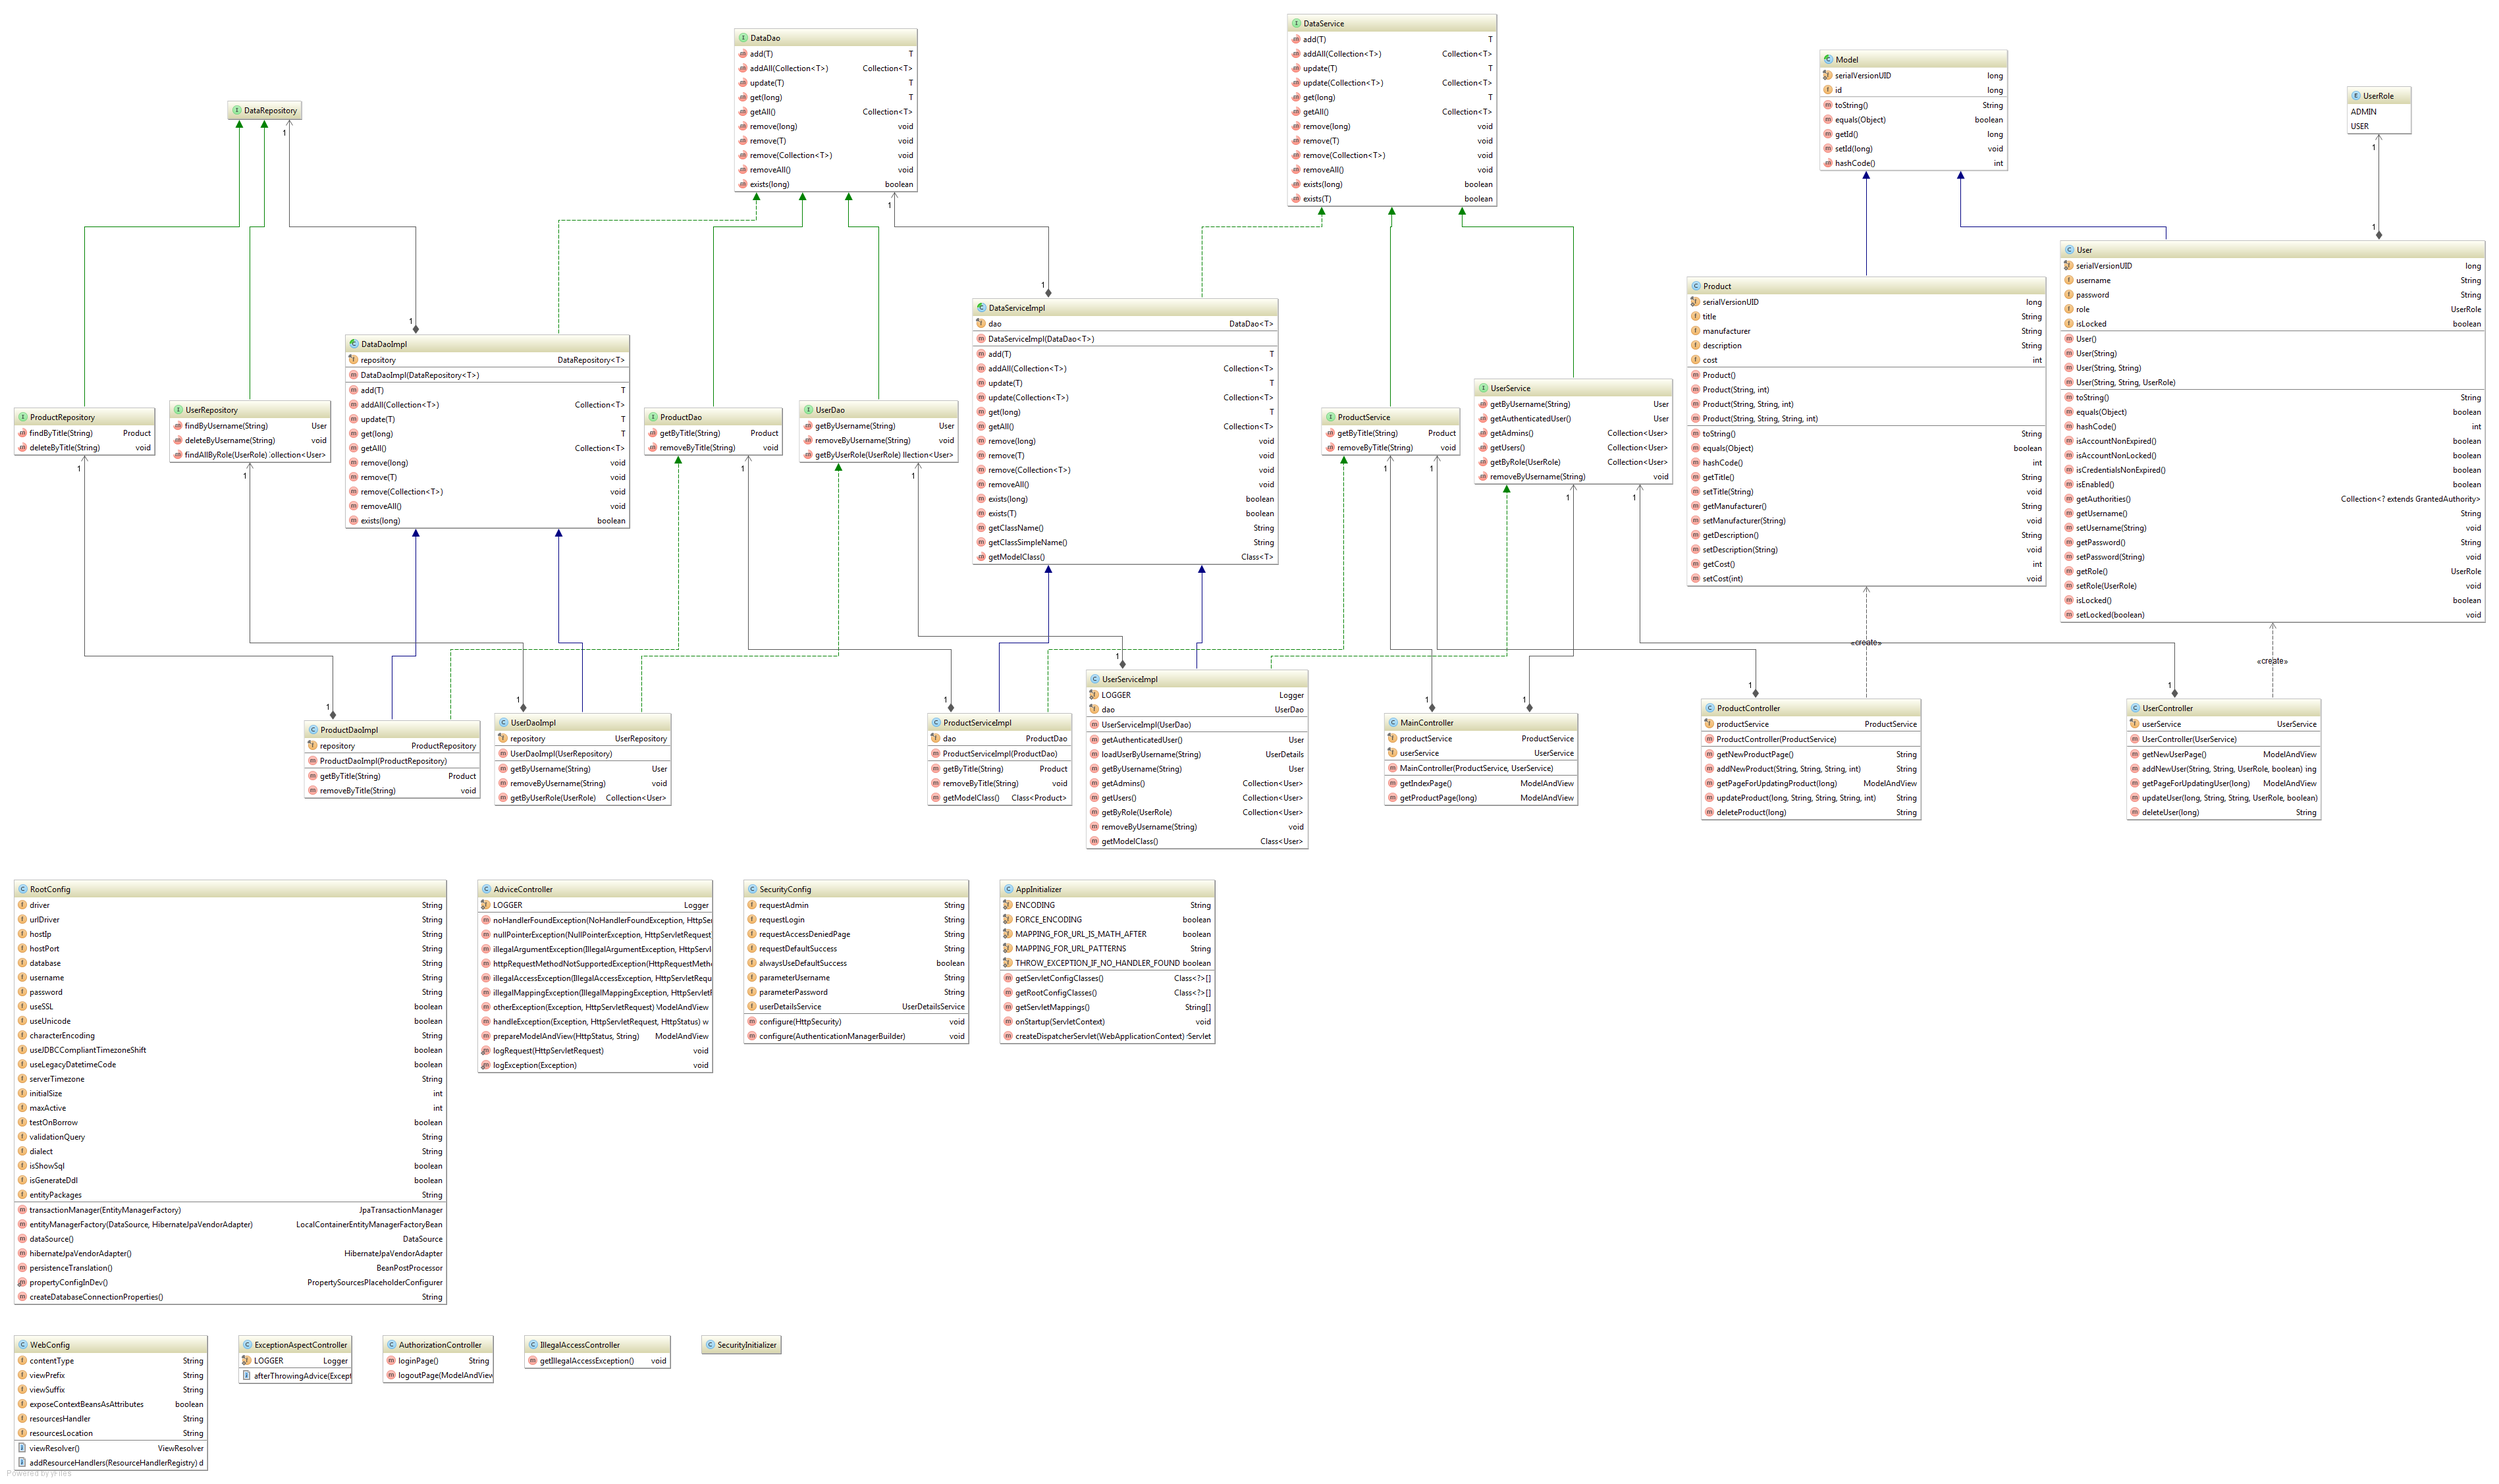
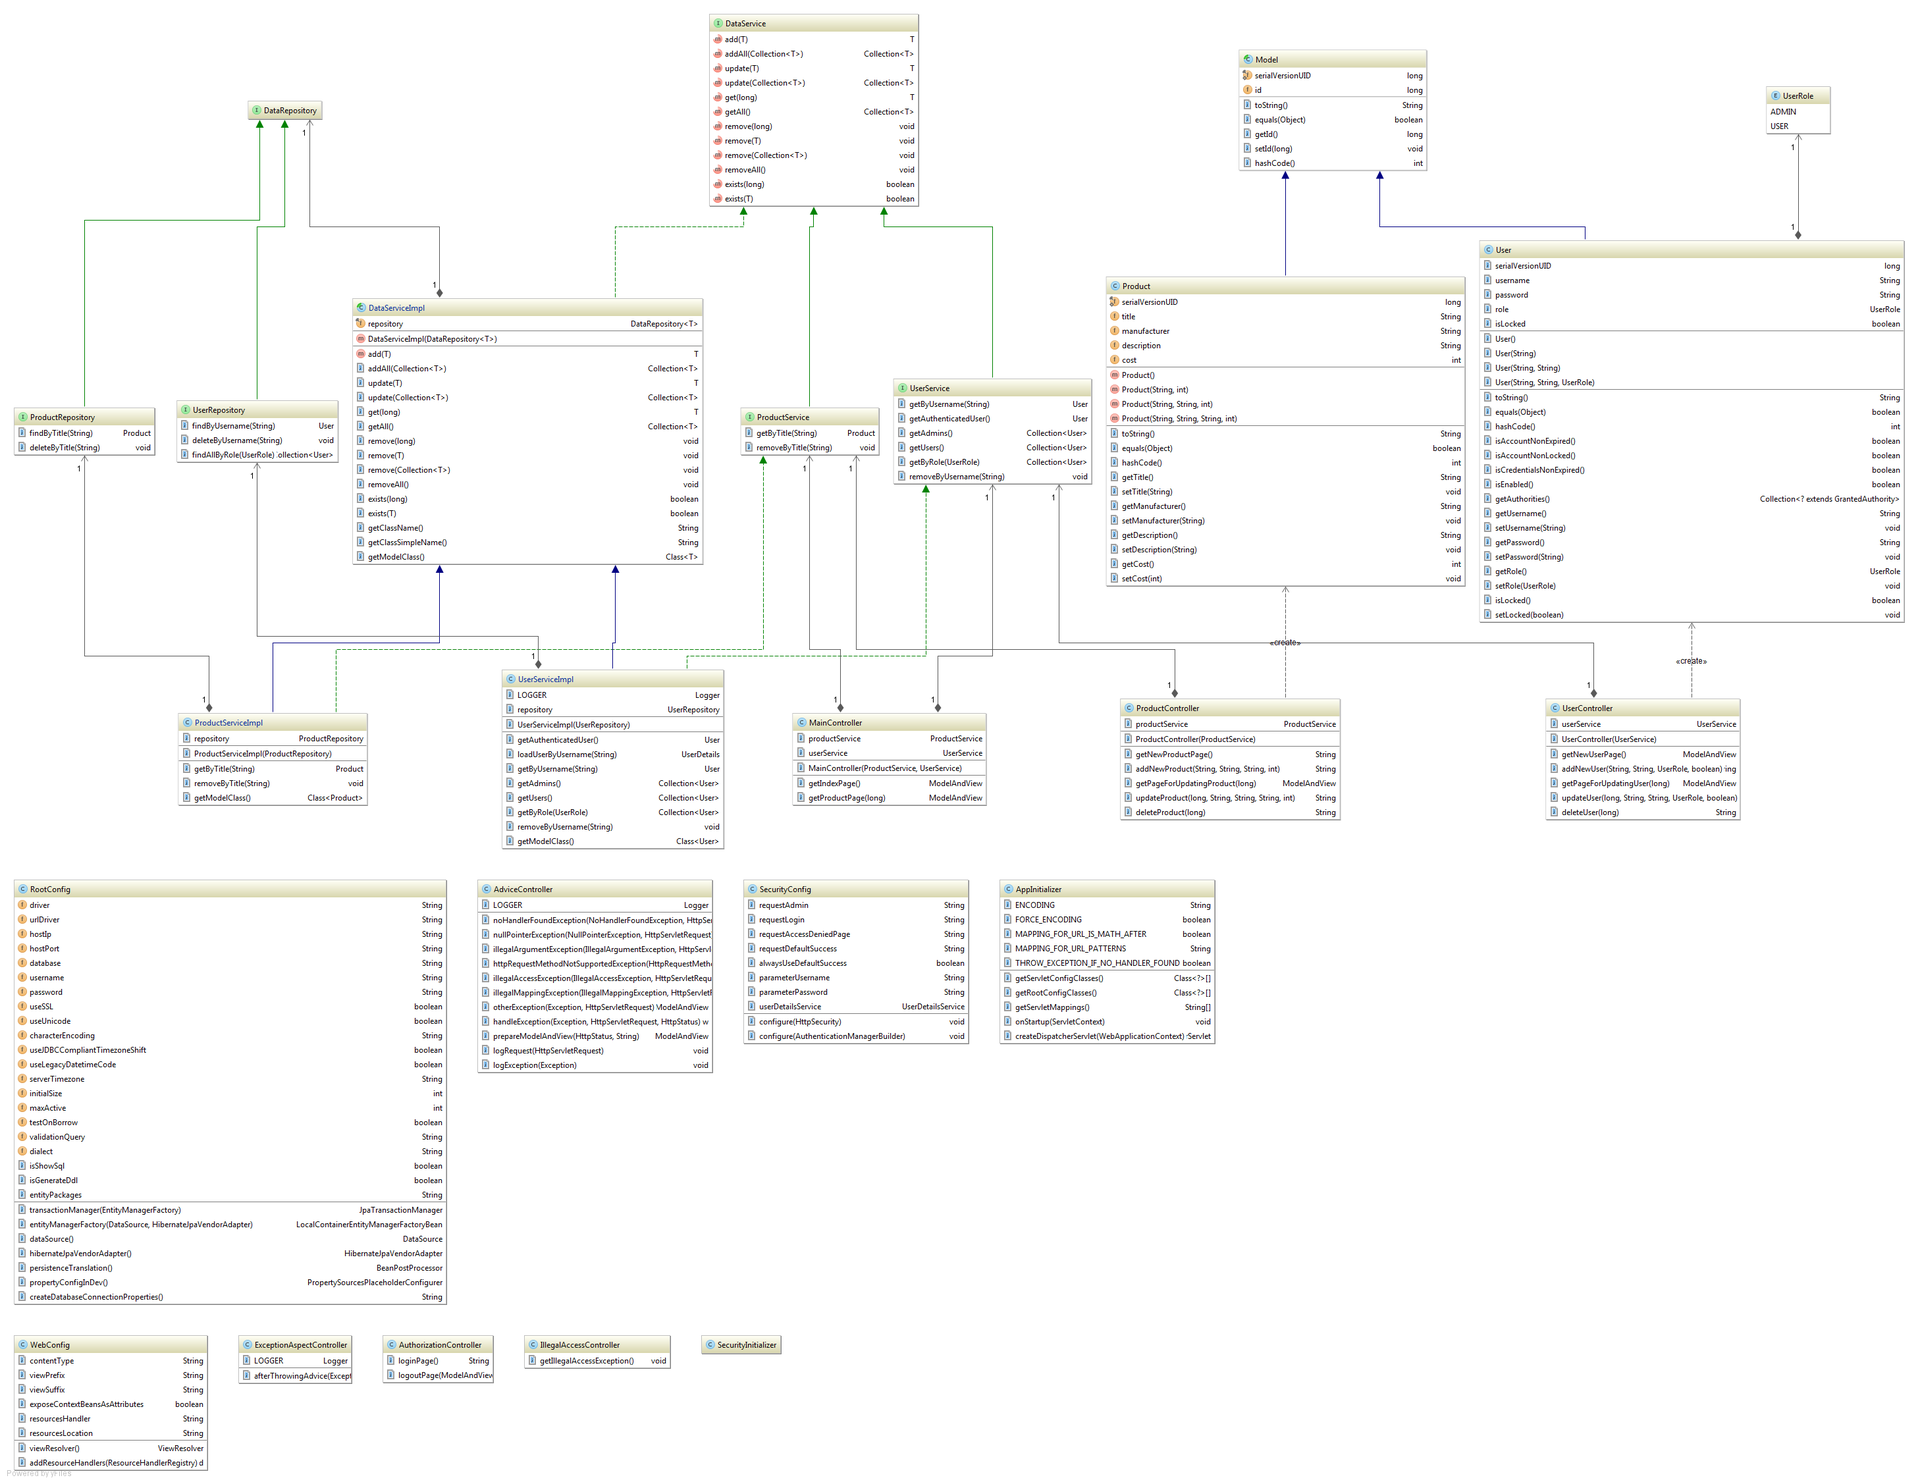
Code refactoring.

diff --git a/src/main/java/com/management/product/service/DataServiceImpl.java b/src/main/java/com/management/product/service/DataServiceImpl.java
@@ -1,11 +1,12 @@
 package com.management.product.service;
 
-import com.management.product.dao.DataDao;
 import com.management.product.entity.Model;
+import com.management.product.repository.DataRepository;
 import org.springframework.transaction.annotation.Transactional;
 
-import java.util.*;
-import java.util.stream.Collectors;
+import java.util.ArrayList;
+import java.util.Collection;
+import java.util.List;
 
 /**
  * The class of the service layer, describes a set of methods
@@ -21,16 +22,16 @@ public abstract class DataServiceImpl<T extends Model> implements DataService<T>
      * The object provides a set of standard JPA methods
      * for working {@link Model} objects with the database.
      */
-    private final DataDao<T> dao;
+    private final DataRepository<T> repository;
 
     /**
      * Constructor.
      * Initializes a implementations of the interfaces.
      *
-     * @param dao a implementation of the {@link DataDao} interface.
+     * @param repository a implementation of the {@link DataRepository} interface.
      */
-    DataServiceImpl(final DataDao<T> dao) {
-        this.dao = dao;
+    DataServiceImpl(final DataRepository<T> repository) {
+        this.repository = repository;
     }
 
     /**
@@ -47,7 +48,7 @@ public abstract class DataServiceImpl<T extends Model> implements DataService<T>
         if (model == null) {
             throw new IllegalArgumentException("Input model is null!");
         }
-        return this.dao.add(model);
+        return this.repository.save(model);
     }
 
     /**
@@ -62,11 +63,7 @@ public abstract class DataServiceImpl<T extends Model> implements DataService<T>
     public Collection<T> addAll(final Collection<T> models) {
         final List<T> result = new ArrayList<>();
         if (models != null && !models.isEmpty()) {
-            result.addAll(
-                    models.stream()
-                            .map(this::add)
-                            .collect(Collectors.toList())
-            );
+            result.addAll(this.repository.save(models));
         }
         return result;
     }
@@ -81,13 +78,8 @@ public abstract class DataServiceImpl<T extends Model> implements DataService<T>
      */
     @Override
     @Transactional
-    public T update(final T model) throws IllegalArgumentException {
-        if (model == null) {
-            throw new IllegalArgumentException(
-                    "Input " + getClassSimpleName() + " is null!"
-            );
-        }
-        return this.dao.update(model);
+    public T update(final T model) {
+        return add(model);
     }
 
     /**
@@ -100,20 +92,12 @@ public abstract class DataServiceImpl<T extends Model> implements DataService<T>
     @Override
     @Transactional
     public Collection<T> update(final Collection<T> models) {
-        final List<T> result = new ArrayList<>();
-        if (models != null && !models.isEmpty()) {
-            result.addAll(
-                    models.stream()
-                            .map(this::update)
-                            .collect(Collectors.toList())
-            );
-        }
-        return result;
+        return addAll(models);
     }
 
     /**
      * Returns object of class {@link Model} or subclasses with parameter id.
-     * If id is {@code null} then throws IllegalArgumentException.
+     * If id is {@code null} then throws NullPointerException.
      *
      * @param id is id of object to return.
      * @return The model with parameter id.
@@ -122,7 +106,7 @@ public abstract class DataServiceImpl<T extends Model> implements DataService<T>
     @Override
     @Transactional(readOnly = true)
     public T get(final long id) throws NullPointerException {
-        final T model = this.dao.get(id);
+        final T model = this.repository.findOne(id);
         if (model == null) {
             throw new NullPointerException(
                     "Can`t find " + getClassSimpleName() +
@@ -140,7 +124,7 @@ public abstract class DataServiceImpl<T extends Model> implements DataService<T>
     @Override
     @Transactional
     public Collection<T> getAll() {
-        return this.dao.getAll();
+        return this.repository.findAll();
     }
 
     /**
@@ -152,7 +136,7 @@ public abstract class DataServiceImpl<T extends Model> implements DataService<T>
     @Override
     @Transactional
     public void remove(final long id) {
-        this.dao.remove(id);
+        this.repository.delete(id);
     }
 
     /**
@@ -165,7 +149,7 @@ public abstract class DataServiceImpl<T extends Model> implements DataService<T>
     @Transactional
     public void remove(final T model) {
         if (model != null) {
-            this.dao.remove(model);
+            this.repository.delete(model);
         }
     }
 
@@ -179,7 +163,7 @@ public abstract class DataServiceImpl<T extends Model> implements DataService<T>
     @Transactional
     public void remove(final Collection<T> models) {
         if (models != null && !models.isEmpty()) {
-            models.forEach(this::remove);
+            this.repository.delete(models);
         }
     }
 
@@ -189,7 +173,7 @@ public abstract class DataServiceImpl<T extends Model> implements DataService<T>
     @Override
     @Transactional
     public void removeAll() {
-        this.dao.removeAll();
+        this.repository.deleteAll();
     }
 
     /**
@@ -202,8 +186,8 @@ public abstract class DataServiceImpl<T extends Model> implements DataService<T>
      */
     @Override
     @Transactional(readOnly = true)
-    public boolean exists(final long id) {
-        return this.dao.exists(id);
+    public boolean exists(long id) {
+        return this.repository.exists(id);
     }
 
     /**

diff --git a/src/main/java/com/management/product/service/UserServiceImpl.java b/src/main/java/com/management/product/service/UserServiceImpl.java
@@ -1,8 +1,8 @@
 package com.management.product.service;
 
-import com.management.product.dao.UserDao;
 import com.management.product.entity.User;
 import com.management.product.enums.UserRole;
+import com.management.product.repository.UserRepository;
 import org.apache.log4j.Logger;
 import org.springframework.beans.factory.annotation.Autowired;
 import org.springframework.context.annotation.ComponentScan;
@@ -38,18 +38,18 @@ public class UserServiceImpl extends DataServiceImpl<User> implements UserServic
      * The interface provides a set of standard methods for working
      * {@link User} objects with the database.
      */
-    private final UserDao dao;
+    private final UserRepository repository;
 
     /**
      * Constructor.
      *
-     * @param dao a implementation of the {@link UserDao} interface.
+     * @param repository a implementation of the {@link UserRepository} interface.
      */
     @Autowired
     @SuppressWarnings("SpringJavaAutowiringInspection")
-    public UserServiceImpl(final UserDao dao) {
-        super(dao);
-        this.dao = dao;
+    public UserServiceImpl(final UserRepository repository) {
+        super(repository);
+        this.repository = repository;
     }
 
     /**
@@ -106,7 +106,7 @@ public class UserServiceImpl extends DataServiceImpl<User> implements UserServic
         if (isBlank(username)) {
             throw new IllegalArgumentException("Input name is blank!");
         }
-        final User user = this.dao.getByUsername(username);
+        final User user = this.repository.findByUsername(username);
         if (user == null) {
             throw new NullPointerException("Can`t find user by name \"" + username + "\"!");
         }
@@ -148,7 +148,7 @@ public class UserServiceImpl extends DataServiceImpl<User> implements UserServic
         if (role == null) {
             throw new IllegalArgumentException("Input user role is null!");
         }
-        return this.dao.getByUserRole(role);
+        return this.repository.findAllByRole(role);
     }
 
     /**
@@ -161,7 +161,7 @@ public class UserServiceImpl extends DataServiceImpl<User> implements UserServic
     @Transactional
     public void removeByUsername(final String username) {
         if (isNotBlank(username)) {
-            this.dao.removeByUsername(username);
+            this.repository.deleteByUsername(username);
         }
     }
 

diff --git a/src/main/java/com/management/product/service/ProductServiceImpl.java b/src/main/java/com/management/product/service/ProductServiceImpl.java
@@ -1,7 +1,7 @@
 package com.management.product.service;
 
-import com.management.product.dao.ProductDao;
 import com.management.product.entity.Product;
+import com.management.product.repository.ProductRepository;
 import org.springframework.beans.factory.annotation.Autowired;
 import org.springframework.context.annotation.ComponentScan;
 import org.springframework.stereotype.Service;
@@ -23,20 +23,20 @@ public class ProductServiceImpl extends DataServiceImpl<Product> implements Prod
 
     /**
      * The interface provides a set of standard methods
-     * for working {@link ProductDao} objects a the database.
+     * for working {@link Product} objects with the database.
      */
-    private final ProductDao dao;
+    private final ProductRepository repository;
 
     /**
      * Constructor.
      *
-     * @param dao a implementation of the {@link ProductDao} interface.
+     * @param repository a implementation of the {@link ProductRepository} interface.
      */
     @Autowired
     @SuppressWarnings("SpringJavaAutowiringInspection")
-    public ProductServiceImpl(final ProductDao dao) {
-        super(dao);
-        this.dao = dao;
+    public ProductServiceImpl(final ProductRepository repository) {
+        super(repository);
+        this.repository = repository;
     }
 
     /**
@@ -54,7 +54,7 @@ public class ProductServiceImpl extends DataServiceImpl<Product> implements Prod
         if (isBlank(title)) {
             throw new IllegalArgumentException("Input title is blank!");
         }
-        final Product product = this.dao.getByTitle(title);
+        final Product product = this.repository.findByTitle(title);
         if (product == null) {
             throw new NullPointerException("Can`t find product by title \"" + title + "\"!");
         }
@@ -71,7 +71,7 @@ public class ProductServiceImpl extends DataServiceImpl<Product> implements Prod
     @Transactional
     public void removeByTitle(String title) {
         if (isNotBlank(title)) {
-            this.dao.removeByTitle(title);
+            this.repository.deleteByTitle(title);
         }
     }
 
